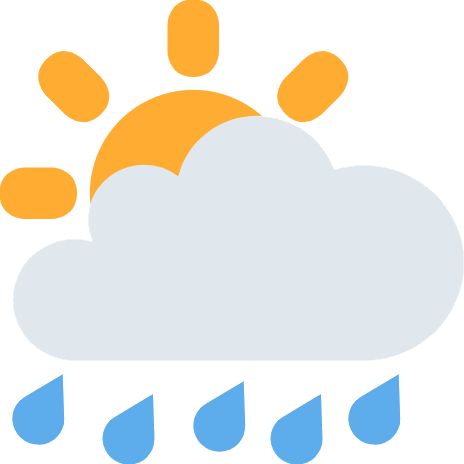
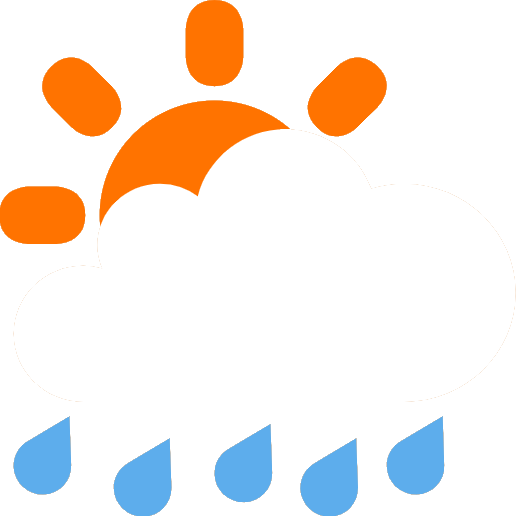
Add weatherIcon and adjust image colors

diff --git a/popup.html b/popup.html
@@ -14,6 +14,7 @@
         </div>
         <div id="vr"></div>
         <div id="weather">
+            <img id="weatherIcon" src="images/weather.png">
             <div id="tempWrapper">
                 <div id="temp">11°C</div>
                 <p id="tempwords">Overcast Clouds</p>

diff --git a/popup.css b/popup.css
@@ -59,6 +59,15 @@ body *{
 
     color: #3a322b;
 }
+
+#weatherIcon {
+    position: absolute;
+    width: 17%;
+    left: 80%;
+    top: 1%;
+
+}
+
 #temp {
     position: absolute;
 
